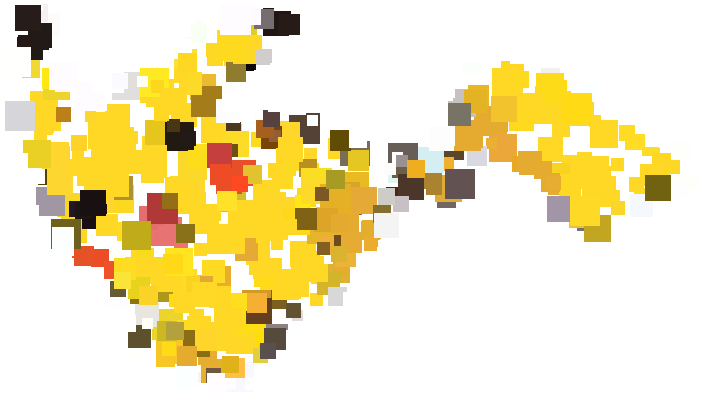
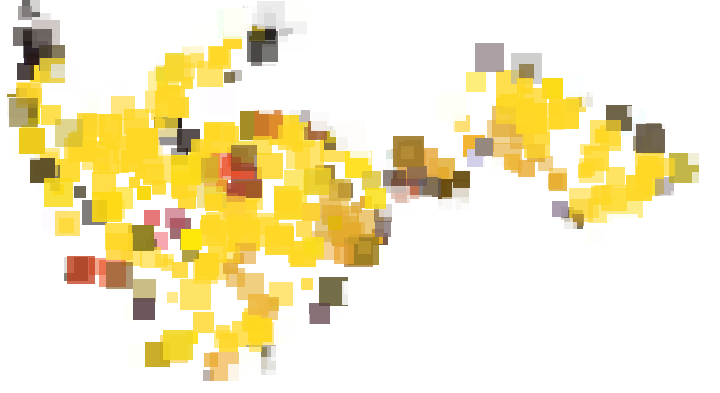
Add opacity management

diff --git a/class.pixelArt.php b/class.pixelArt.php
@@ -12,12 +12,17 @@
 	class pixelArt{
 		
 		private $pathImage = "image/";
-		
+
 		public function __construct( $params = array() ){
 			
 			//save params
 			$this->params = $params;
 			
+			//convert params % to correct value
+			if( isset( $this->params["minOpacity"] ) ){
+				$this->minOpacity = 127 - ($this->params["minOpacity"] * 127/100);
+			}
+
 			if( isset($this->params["fileName"]) && $this->params["fileName"] != null){
 				//get image
 				$this->url 				= $this->pathImage . $this->params["fileName"];
@@ -82,6 +87,17 @@
 			return $tmpImage;
 		}
 		
+		public function getOpacity( $opacity, $size ){
+			
+			//check if min opacity exist
+			if( isset( $this->params["minOpacity"] ) ){
+				return rand(0, $this->minOpacity);
+			}else{
+				return $opacity;
+			}
+
+		}
+		
 		public function rect(){
 			
 			//check if point exist
@@ -112,12 +128,16 @@
 				$shapeXEnd = $shapeX + $sizeShape;
 				$shapeYEnd = $shapeY + $sizeShape;
 
+				//generate random opacity
+				$opacity = $this->getOpacity($point["color"]["alpha"], $sizeShape);
+
 				//prepare color
-				$tmpColor = imagecolorallocatealpha($tmpImage, $point["color"]["red"], $point["color"]["green"], $point["color"]["blue"], $point["color"]["alpha"]);
+				$tmpColor = imagecolorallocatealpha($tmpImage, $point["color"]["red"], $point["color"]["green"], $point["color"]["blue"], $opacity);
 				//construct shape on tmpImage
 				imagefilledrectangle($tmpImage, $shapeX, $shapeY, $shapeXEnd, $shapeYEnd, $tmpColor);
 					
 			}
+			
 			
 			imagepng($tmpImage, "image_created/rect.png");
 			imagedestroy($tmpImage);
@@ -132,7 +152,8 @@
 		"fileName"            => "pikachu.jpg",
 		"nbrPoint"            => 1000,
 		"shape"               => "rect",
-		"rangeSizeShape"	  => array(10,30)
+		"rangeSizeShape"	  => array(10,30),
+		"minOpacity"		  => 50,	//0 = hide | 100 = visible
 	);
 	
 	//launch object	
